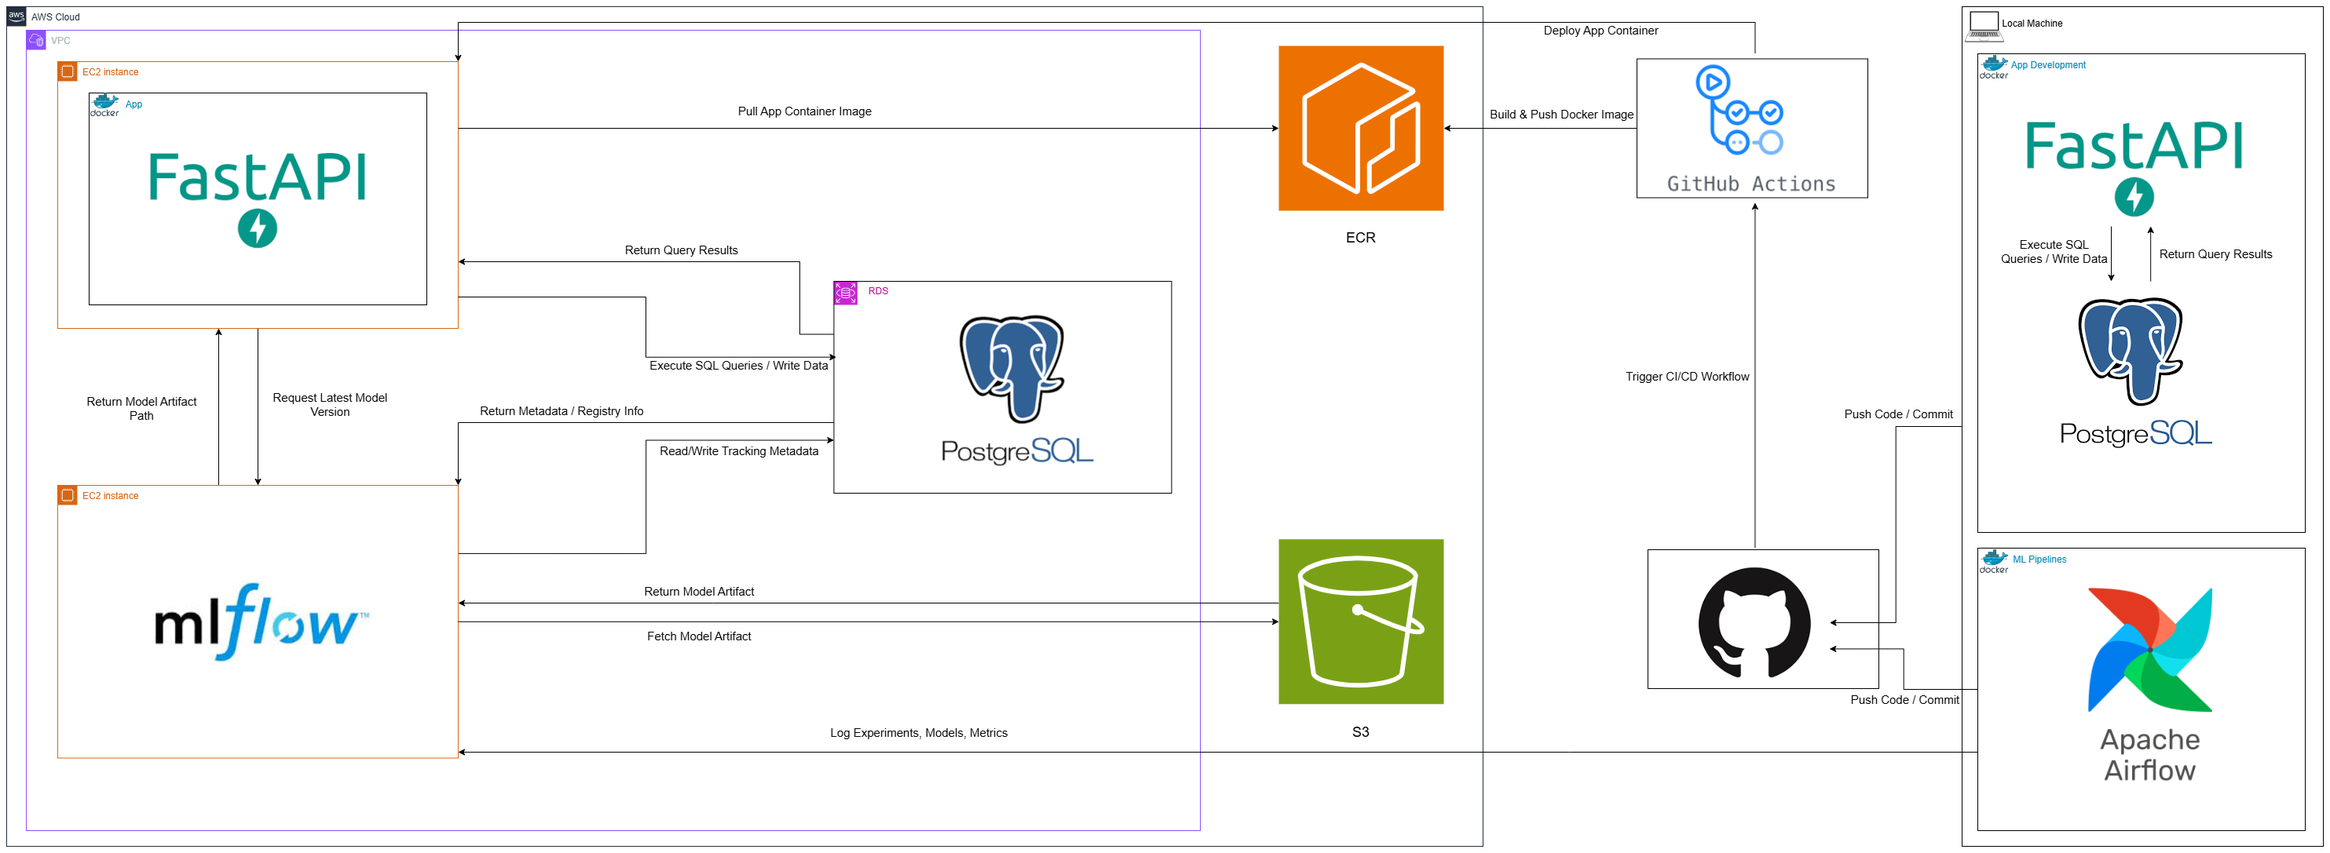
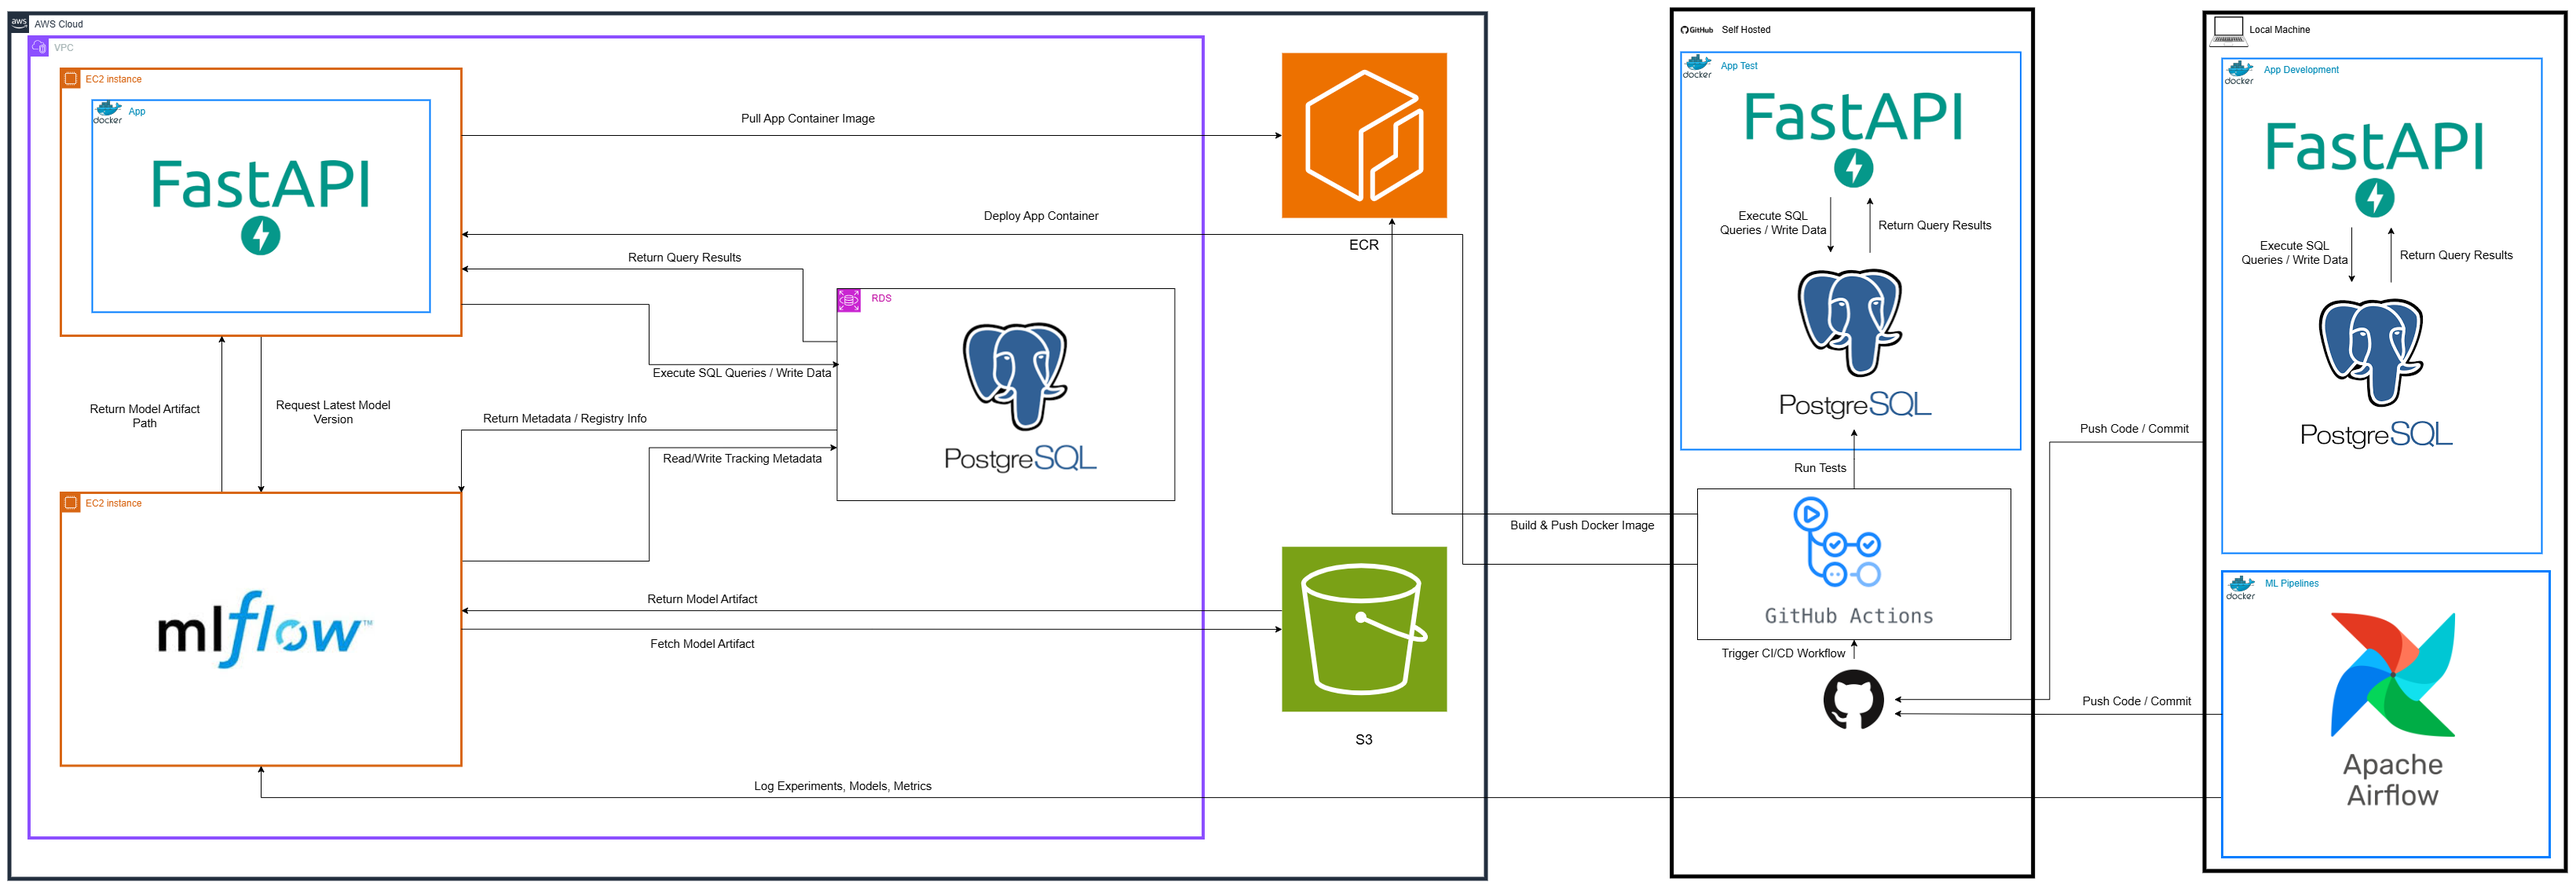
Update software models

diff --git a/api/test/test_api.py b/api/test/test_api.py
@@ -7,7 +7,7 @@ import requests
 import json
 from pathlib import Path
 
-BASE_URL = "http://localhost:8000"
+BASE_URL = "http://localhost:8080"
 
 def print_section(title):
     print("\n" + "="*70)

diff --git a/README.md b/README.md
@@ -64,55 +64,70 @@ The API follows a layered architecture pattern:
 
 ![MLOps Architecture](docs/MLOps_Deployment_Architecture.png)
 
-The MLOps pipeline implements a complete CI/CD workflow:
+The MLOps pipeline implements a complete CI/CD workflow across development, training, and production environments:
 
 **Development & Training (Local Environment)**:
-- **Apache Airflow**: Orchestrates ML pipelines with dedicated DAGs for each model
-  - Data loading → Preprocessing → Feature extraction → Model training
-  - Automated scheduling and monitoring of pipeline tasks
-  - Connects to PostgreSQL for metadata storage
-- **MLflow**: Tracks experiments, models, and metrics
-  - Logs model parameters, metrics, and artifacts
-  - Stores model versions in model registry
-  - Retrieves latest/best model versions for deployment
+- **FastAPI Application**: 
+  - Serves ML model predictions via RESTful API endpoints
+  - Handles model artifact retrieval and version management
+  - Executes SQL queries for data operations
+- **MLflow**: Experiment tracking and model registry
+  - Logs model parameters, metrics, and training artifacts
+  - Maintains model versioning in centralized registry
+  - Returns metadata and registry information for model retrieval
+  - Tracks and writes training metadata to PostgreSQL backend
+  - Stores model artifacts, plots, and datasets in S3
+- **PostgreSQL Database**: 
+  - Stores application data (users, predictions)
+  - Maintains MLflow experiment tracking metadata
+  - Executes SQL queries for data read/write operations
+- **RDS (PostgreSQL)**: Cloud-based relational database
+  - Mirrors local PostgreSQL functionality in production
+  - Returns query results to application layer
 
 **Version Control & CI/CD**:
 - **GitHub**: Source code repository
-  - Developers push code/commits to trigger workflows
-- **GitHub Actions**: Automated CI/CD pipeline
-  - Builds Docker images on code push
-  - Runs tests and validates builds
-  - Pushes images to Amazon ECR
+  - Developers push code commits to trigger automated workflows
+- **GitHub Actions**: CI/CD automation pipeline
+  - Runs comprehensive test suites on code push
+  - Builds and pushes Docker images to Amazon ECR
+  - Triggers deployment workflows to EC2 instances
 
 **AWS Cloud Infrastructure**:
 - **Amazon ECR (Elastic Container Registry)**: 
-  - Stores Docker container images
-  - Provides secure, scalable image storage
-- **Amazon S3**: 
-  - Stores MLflow artifacts (models, plots, datasets)
-  - Logs experiments and model metadata
-- **Amazon RDS (PostgreSQL)**:
-  - Application backend store for users and predictions
-  - MLflow backend store for experiment tracking
-  - Stores run metadata, parameters, and metrics
+  - Stores versioned Docker container images
+  - Provides secure, scalable image repository
+  - Supplies container images for EC2 deployment
+- **Amazon S3**: Object storage for ML artifacts
+  - Hosts MLflow experiment artifacts (models, visualizations, datasets)
+  - Maintains experiment logs and model metadata
 - **EC2 Instance (MLflow Server)**:
-  - Hosts MLflow tracking server
-  - Provides UI for experiment visualization
-  - Manages model registry
+  - Hosts MLflow tracking server with web UI
+  - Provides experiment visualization and comparison
+  - Manages centralized model registry
+  - Pushes code and commits to trigger GitHub Actions
 - **EC2 Instance (App Deployment)**:
-  - Runs FastAPI application containers
-  - Pulls latest images from ECR
-  - Executes SQL queries and writes data to RDS
-  - Returns prediction results to clients
+  - Runs containerized FastAPI application
+  - Pulls latest Docker images from ECR on deployment
+  - Connects to RDS for data persistence
+  - Retrieves models from MLflow for inference
+  - Returns prediction results to end users
+- **Apache Airflow (Local Machine)**: ML pipeline orchestration
+  - Orchestrates end-to-end ML workflows via DAGs
+  - Automates data loading, preprocessing, feature extraction, and model training
+  - Schedules and monitors pipeline execution
+  - Connects to PostgreSQL for workflow metadata storage
 
 **Deployment Flow**:
-1. Developer commits code to GitHub
-2. GitHub Actions triggers automated build
-3. Docker image is built and pushed to ECR
-4. EC2 instance pulls new image from ECR
-5. Container is deployed with updated models
-6. Application connects to MLflow for model loading
-7. Predictions are served to end users
+1. Developer commits code to GitHub repository
+2. GitHub Actions automatically triggers CI/CD pipeline
+3. Automated tests validate code quality and functionality
+4. Docker image is built with latest application code
+5. Image is pushed to Amazon ECR with version tags
+6. EC2 app instance pulls updated image from ECR
+7. New container is deployed, replacing previous version
+8. Application loads latest model versions from MLflow
+9. FastAPI serves predictions with updated models to clients
 
 ### Technology Stack
 - **Orchestration**: Apache Airflow
@@ -399,7 +414,7 @@ The GitHub repository must include:
 Once the FastAPI service is running, open the interactive documentation at:
 **`http://localhost:8000/docs`**
 
-Below is the **full list of all endpoints** included in FastAPI service.
+Below is the **full list of all endpoints** included in the FastAPI app.
 
 ---
 
